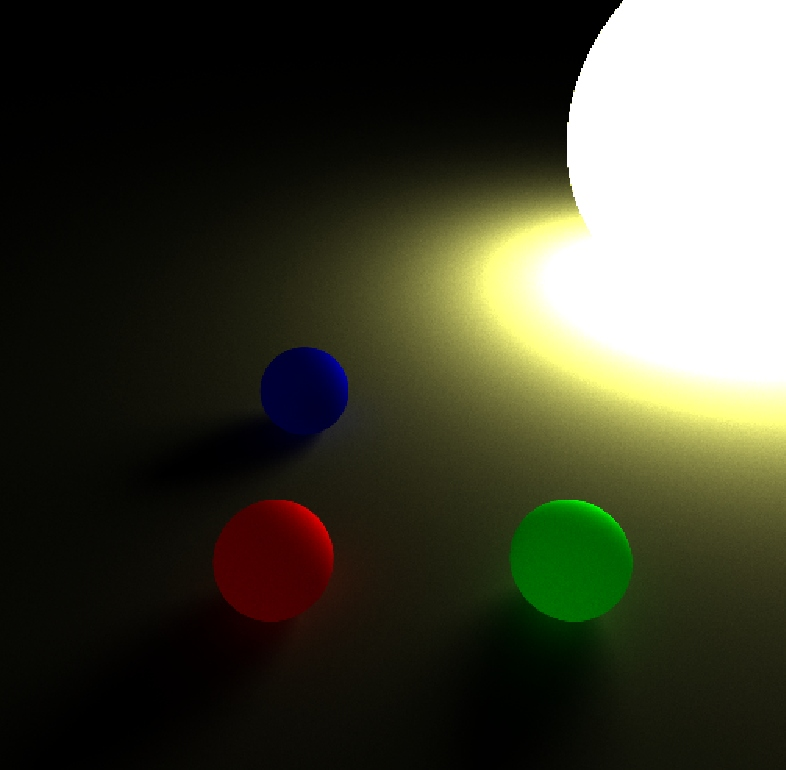
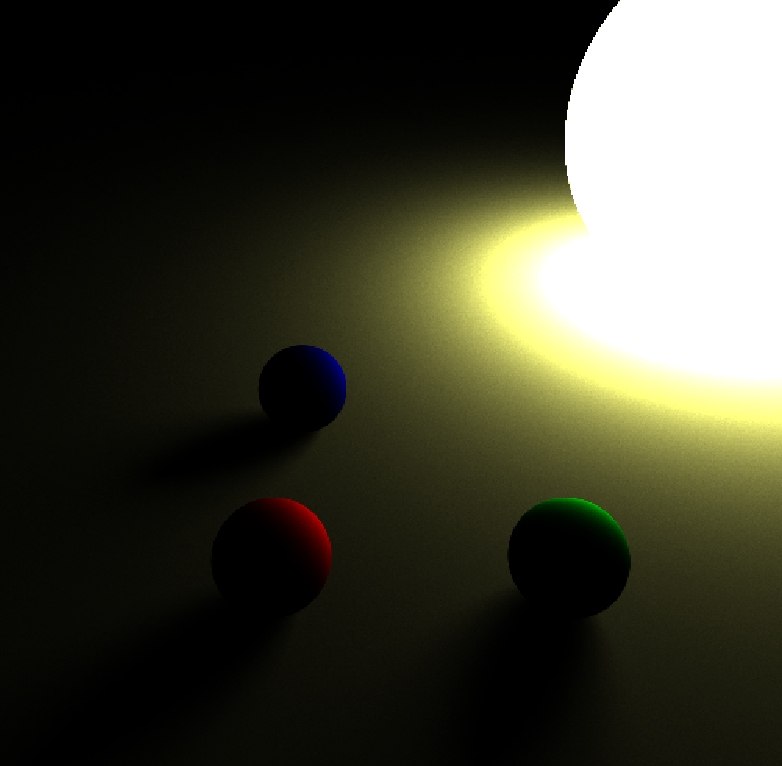
update depth 2 only

Changed region(s): [[0.6445, 0.6305, 0.8286, 0.8407], [0.2455, 0.6305, 0.4297, 0.8407], [0.3069, 0.4504, 0.4604, 0.5705]]

diff --git a/subpages/subsubpages/projectGraphics3.html b/subpages/subsubpages/projectGraphics3.html
@@ -9,7 +9,7 @@
     <div class="col-md-6">
       <img src="Images/Projects/Graphics3/pt_no-envmap.jpg" class="img-fluid" />
       <figcaption class="text-center mt-0 fst-italic">
-        Path tracer (depth 32, envmap off)
+        Path tracer (depth 2, envmap off)
       </figcaption>
     </div>
   </div>
